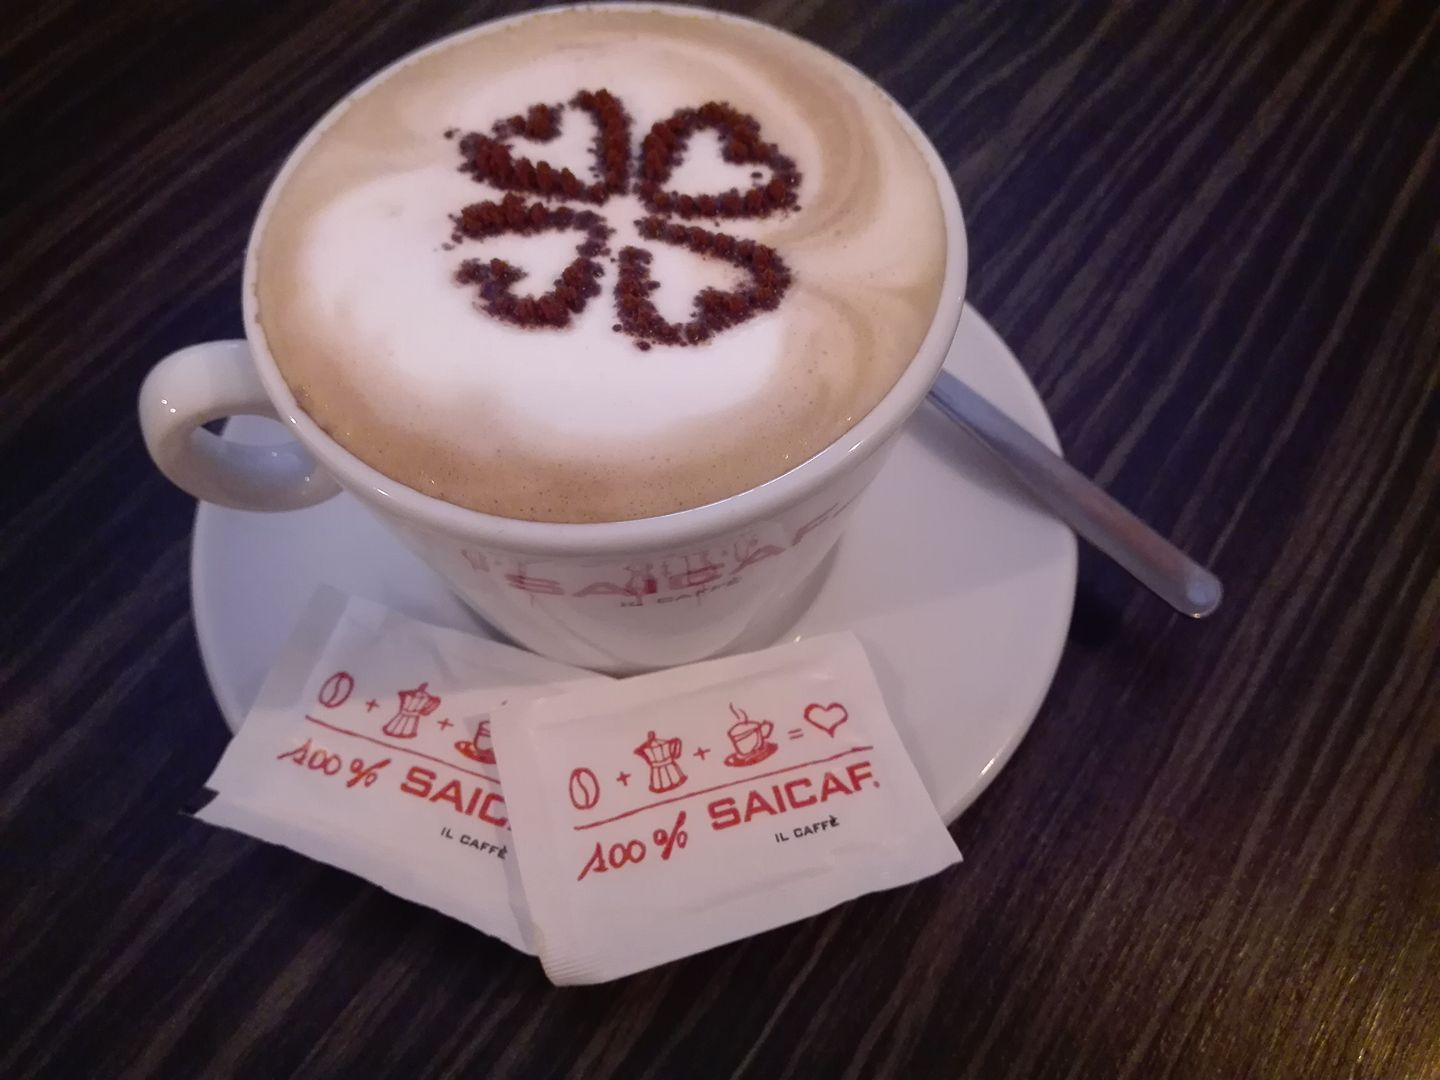
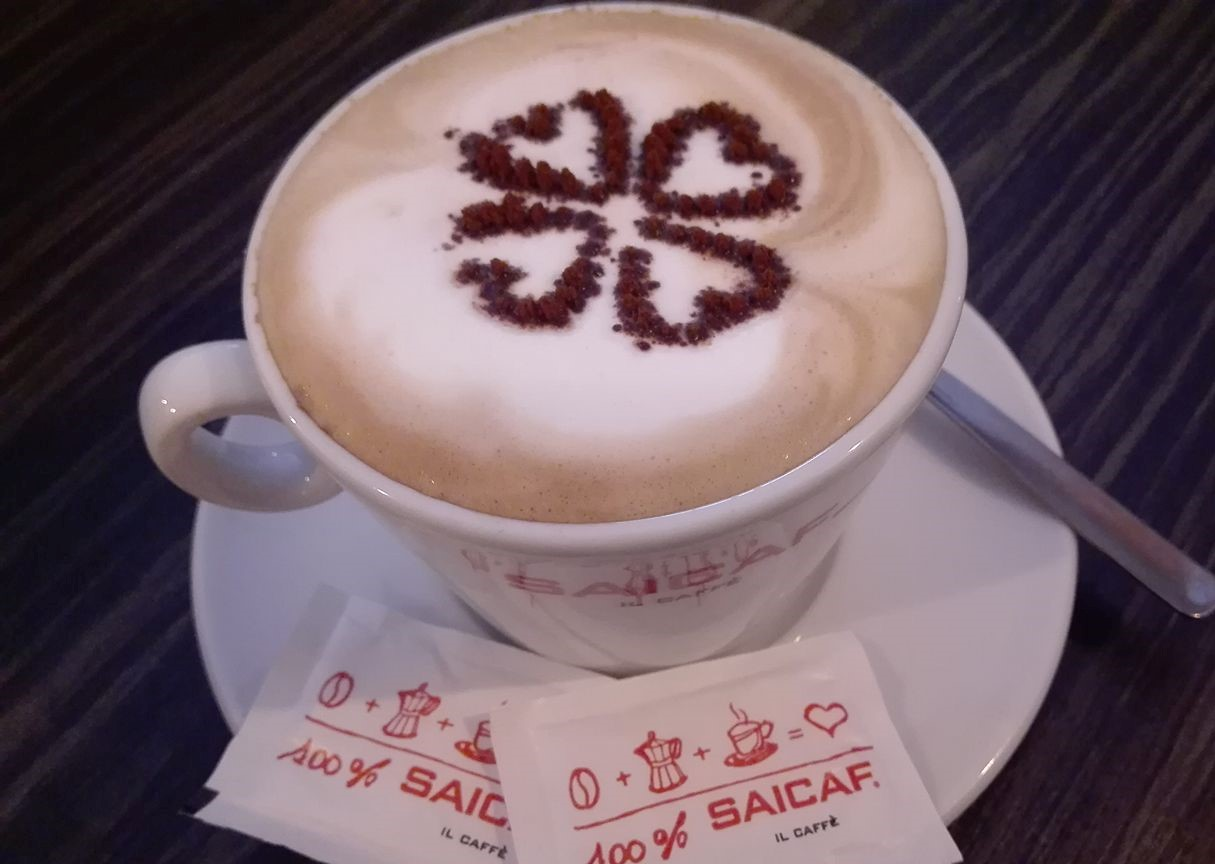
saving progress,  add padding-left to item class

diff --git a/assets/css/style.css b/assets/css/style.css
@@ -480,14 +480,8 @@ input[type=number] {
 }
 
 .item {
+    padding-left: 2vw;
     flex: 1 1 30em;
-}
-
-#starters {
-    display: flex;
-    flex-wrap: wrap;
-    align-items: flex-start;
-    justify-content: flex-start;
 }
 
 #starters img {
@@ -499,13 +493,6 @@ input[type=number] {
     justify-content: right;
 }
 
-#pasta {
-    display: flex;
-    flex-wrap: wrap;
-    align-items: center;
-    justify-content: flex-end;
-}
-
 #pasta img {
     border: 2px solid;
     height: 400px;
@@ -515,13 +502,6 @@ input[type=number] {
     justify-content: left;
 }
 
-#pizza {
-    display: flex;
-    flex-wrap: wrap;
-    align-items: center;
-    justify-content: flex-end;
-}
-
 #pizza img {
     border: 2px solid;
     height: 400px;
@@ -529,13 +509,6 @@ input[type=number] {
     object-fit: cover;
     align-items: center;
     justify-content: right;
-}
-
-#vegetarian {
-    display: flex;
-    flex-wrap: wrap;
-    align-items: center;
-    justify-content: flex-end;
 }
 
 #vegetarian img {

diff --git a/menu.html b/menu.html
@@ -180,7 +180,7 @@
 
         <div class="menu-item inner-container" id="drinks">
             <h2>Drinks</h2>
-            <img class="drinks-item" src="assets/images/drinks2.jpg" alt="500 cocktail">
+            <img class="drinks-item" src="assets/images/wine.jpg" alt="500 cocktail">
             <div class="drinks-item item">
                 <h4 class="top-spacer">Beers</h4>
                 <p>Moretti</p>
@@ -198,7 +198,7 @@
 
         <div class="menu-item inner-container" id="hot-drinks">
             <h2>Hot Drinks</h2>
-            <img class="hot-drinks-item" src="assets/images/coffee2.jpg" alt="coffee 500">
+            <img class="hot-drinks-item" src="assets/images/coffee.jpg" alt="coffee 500">
             <div class="hot-drinks-item item">
                 <h4 class="top-spacer">Coffees</h4>
                 <p>Latte</p>
